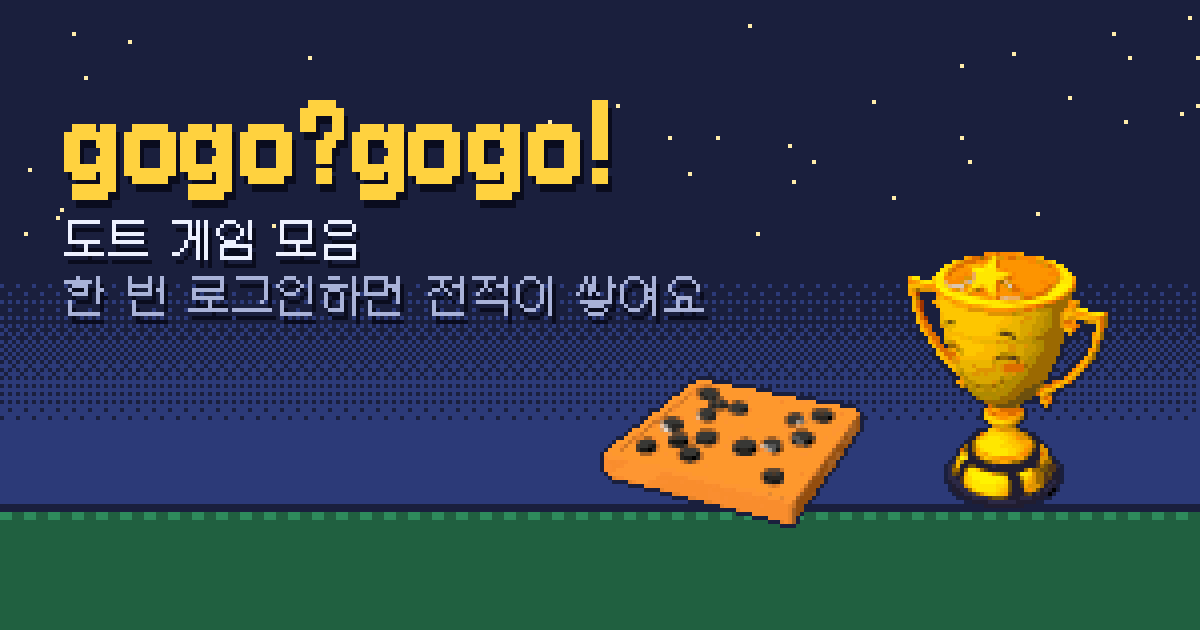
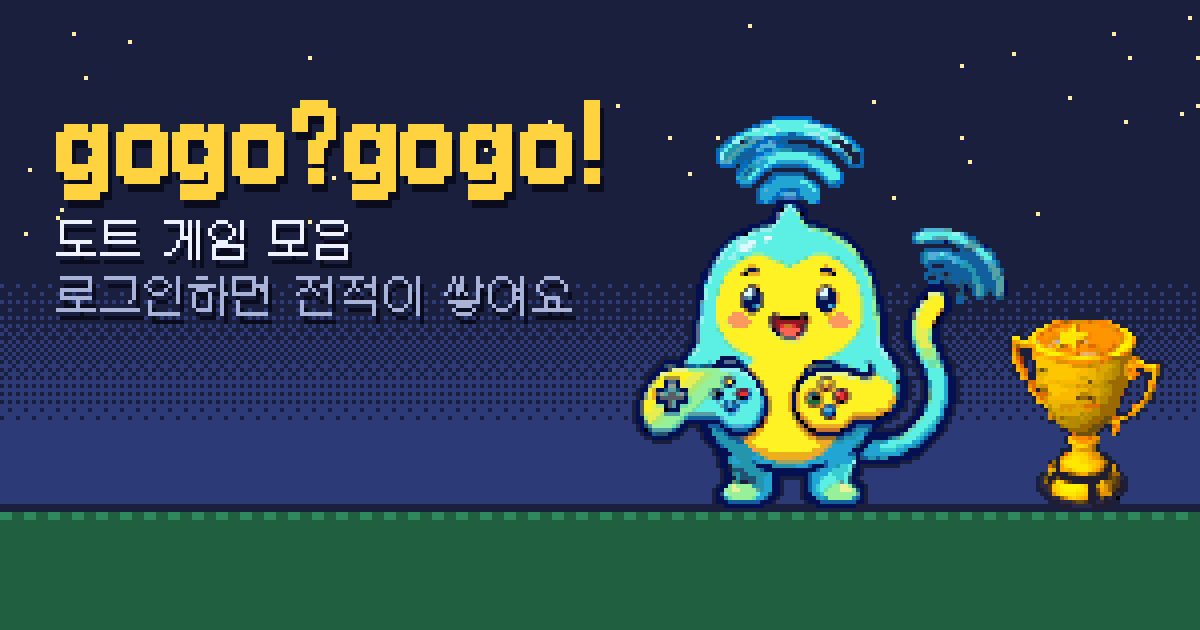
새 마스코트(Meshy 도트) 추가, 링크 미리보기 그림

Changed region(s): [[0.0308, 0.1508, 0.9867, 0.8444]]

diff --git a/index.html b/index.html
@@ -26,7 +26,7 @@
 <link rel="stylesheet" href="https://fonts.googleapis.com/css2?family=Noto+Serif+KR:wght@900&text=%E6%A5%9A%E6%BC%A2%E8%BB%8A%E5%8C%85%E9%A6%AC%E8%B1%A1%E5%A3%AB%E5%8D%92%E5%85%B5&display=swap">
 <!--HEAD-END-->
 <!-- ?v= 숫자: 업데이트할 때마다 sw.js 의 VERSION 과 함께 1씩 올리기 (브라우저가 옛 파일을 쓰지 않도록) -->
-<link rel="stylesheet" href="css/style.css?v=14">
+<link rel="stylesheet" href="css/style.css?v=15">
 <!-- 앱 설치(PWA) -->
 <link rel="manifest" href="manifest.webmanifest">
 <meta name="theme-color" content="#161C3A">
@@ -117,41 +117,41 @@
 <!-- Supabase 연결 시 사용 (config.js가 비어 있으면 체험 모드) -->
 <script src="https://cdn.jsdelivr.net/npm/@supabase/supabase-js@2.117.3/dist/umd/supabase.js"></script>
 <!-- 순서 중요: 설정 → 공통 → 아바타 → 로그인/전적 → 게임(장르 폴더별 settings.js + game.js) → 화면 -->
-<script src="js/config.js?v=14"></script>
-<script src="games/common/shared.js?v=14"></script>
-<script src="avatar/avatar.js?v=14"></script>
-<script src="js/filter.js?v=14"></script>
-<script src="js/gamehub.js?v=14"></script>
-<script src="games/puzzle/blocks/settings.js?v=14"></script>
-<script src="games/puzzle/blocks/game.js?v=14"></script>
-<script src="games/puzzle/battle/settings.js?v=14"></script>
-<script src="games/puzzle/battle/game.js?v=14"></script>
-<script src="games/puzzle/2048/settings.js?v=14"></script>
-<script src="games/puzzle/2048/game.js?v=14"></script>
-<script src="games/arcade/snake/settings.js?v=14"></script>
-<script src="games/arcade/snake/game.js?v=14"></script>
-<script src="games/common/board.js?v=14"></script>
-<script src="games/board/baduk/settings.js?v=14"></script>
-<script src="games/board/baduk/game.js?v=14"></script>
-<script src="games/board/omok/settings.js?v=14"></script>
-<script src="games/board/omok/game.js?v=14"></script>
-<script src="games/board/janggi/settings.js?v=14"></script>
-<script src="games/board/janggi/game.js?v=14"></script>
-<script src="games/board/chess/settings.js?v=14"></script>
-<script src="games/board/chess/game.js?v=14"></script>
-<script src="games/board/alkkagi/settings.js?v=14"></script>
-<script src="games/board/alkkagi/game.js?v=14"></script>
-<script src="games/board/code/settings.js?v=14"></script>
-<script src="games/board/code/game.js?v=14"></script>
-<script src="games/sports/sport.js?v=14"></script>
-<script src="games/sports/volley/settings.js?v=14"></script>
-<script src="games/sports/volley/game.js?v=14"></script>
-<script src="games/sports/fight/settings.js?v=14"></script>
-<script src="games/sports/fight/game.js?v=14"></script>
-<script src="js/shop.js?v=14"></script>
-<script src="js/social.js?v=14"></script>
-<script src="js/admin.js?v=14"></script>
-<script src="js/app.js?v=14"></script>
-<script src="js/pwa.js?v=14"></script>
+<script src="js/config.js?v=15"></script>
+<script src="games/common/shared.js?v=15"></script>
+<script src="avatar/avatar.js?v=15"></script>
+<script src="js/filter.js?v=15"></script>
+<script src="js/gamehub.js?v=15"></script>
+<script src="games/puzzle/blocks/settings.js?v=15"></script>
+<script src="games/puzzle/blocks/game.js?v=15"></script>
+<script src="games/puzzle/battle/settings.js?v=15"></script>
+<script src="games/puzzle/battle/game.js?v=15"></script>
+<script src="games/puzzle/2048/settings.js?v=15"></script>
+<script src="games/puzzle/2048/game.js?v=15"></script>
+<script src="games/arcade/snake/settings.js?v=15"></script>
+<script src="games/arcade/snake/game.js?v=15"></script>
+<script src="games/common/board.js?v=15"></script>
+<script src="games/board/baduk/settings.js?v=15"></script>
+<script src="games/board/baduk/game.js?v=15"></script>
+<script src="games/board/omok/settings.js?v=15"></script>
+<script src="games/board/omok/game.js?v=15"></script>
+<script src="games/board/janggi/settings.js?v=15"></script>
+<script src="games/board/janggi/game.js?v=15"></script>
+<script src="games/board/chess/settings.js?v=15"></script>
+<script src="games/board/chess/game.js?v=15"></script>
+<script src="games/board/alkkagi/settings.js?v=15"></script>
+<script src="games/board/alkkagi/game.js?v=15"></script>
+<script src="games/board/code/settings.js?v=15"></script>
+<script src="games/board/code/game.js?v=15"></script>
+<script src="games/sports/sport.js?v=15"></script>
+<script src="games/sports/volley/settings.js?v=15"></script>
+<script src="games/sports/volley/game.js?v=15"></script>
+<script src="games/sports/fight/settings.js?v=15"></script>
+<script src="games/sports/fight/game.js?v=15"></script>
+<script src="js/shop.js?v=15"></script>
+<script src="js/social.js?v=15"></script>
+<script src="js/admin.js?v=15"></script>
+<script src="js/app.js?v=15"></script>
+<script src="js/pwa.js?v=15"></script>
 </body>
 </html>

diff --git a/css/style.css b/css/style.css
@@ -855,3 +855,14 @@ mark.bad-word { background: #FFE1E2; color: #B3261E; text-decoration: underline 
 @media (max-width: 960px) and (orientation: landscape) {
   .board-play .cabinet { max-width: min(100%, calc((100svh - 24px) * var(--ar, 1) + 16px)); }
 }
+
+/* ---------- 마스코트 (선생님 그림 → Meshy AI로 도트 다듬기) ---------- */
+#accountBox { position: relative; margin-top: 92px; }
+#accountBox::before {
+  content: ""; position: absolute; right: 12px; top: -101px; width: 97px; height: 106px; pointer-events: none;
+  background: url(../img/mascot.png) no-repeat; image-rendering: pixelated;
+  animation: mascot-bob 1.4s steps(2, jump-none) infinite alternate;
+}
+@keyframes mascot-bob { from { transform: translateY(0); } to { transform: translateY(-3px); } }
+@media (max-width: 960px) { #accountBox { margin-top: 96px; } }
+@media (prefers-reduced-motion: reduce) { #accountBox::before { animation: none; } }

diff --git a/sw.js b/sw.js
@@ -2,7 +2,7 @@
  * gogo?gogo! 서비스 워커 — 앱 설치와 오프라인 플레이를 담당합니다.
  * 파일을 고친 뒤 배포할 때는 VERSION 숫자를 올려 주세요. (설치된 앱이 새 버전을 받습니다)
  */
-const VERSION = 'gogogogo-v14';
+const VERSION = 'gogogogo-v15';
 const SHELL = [
   './', './index.html', './manifest.webmanifest',
   './css/style.css',
